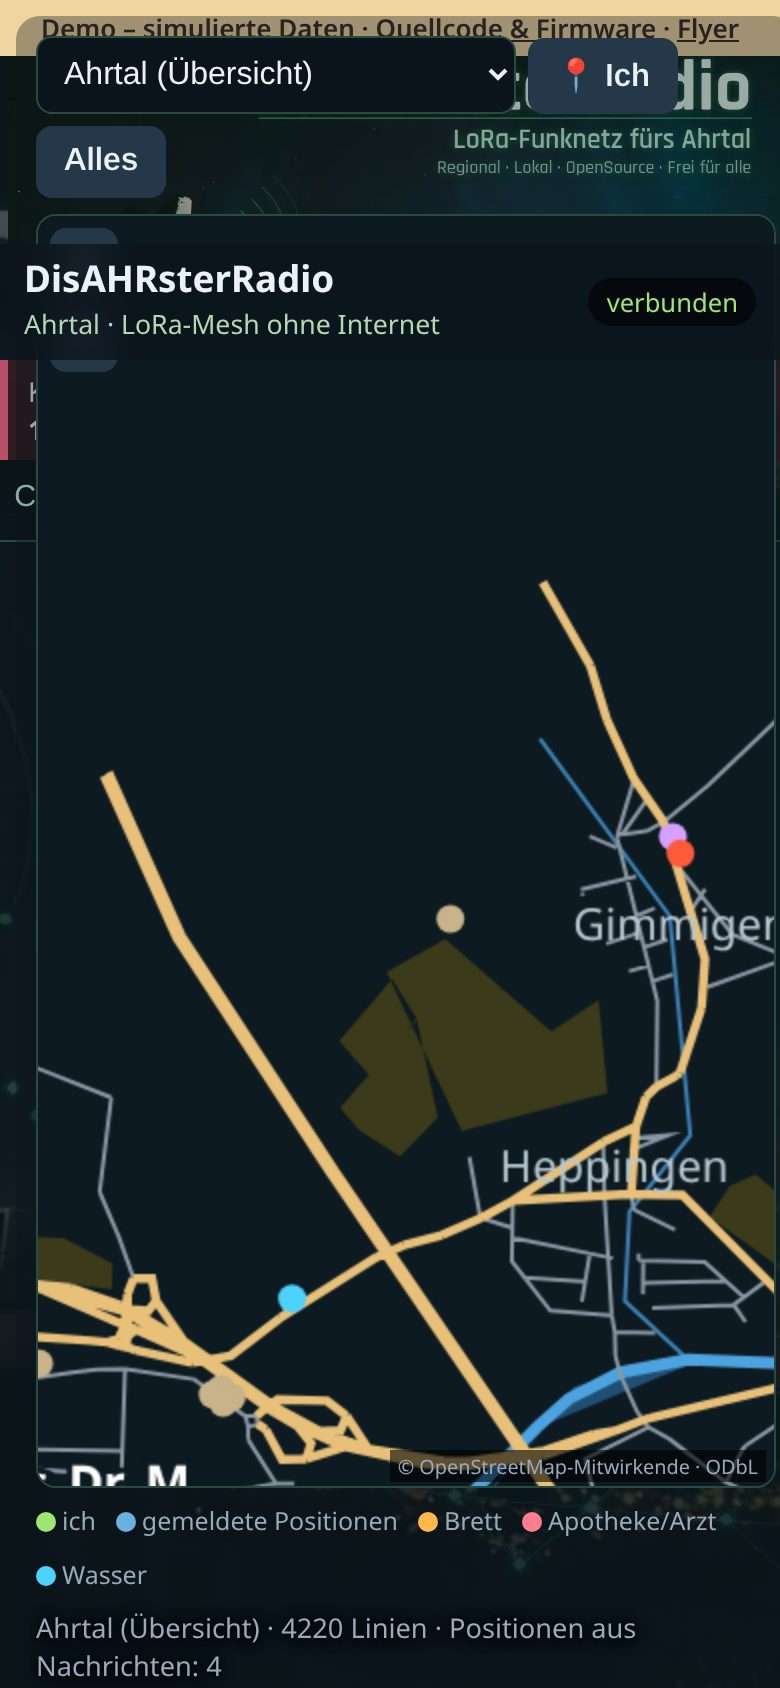
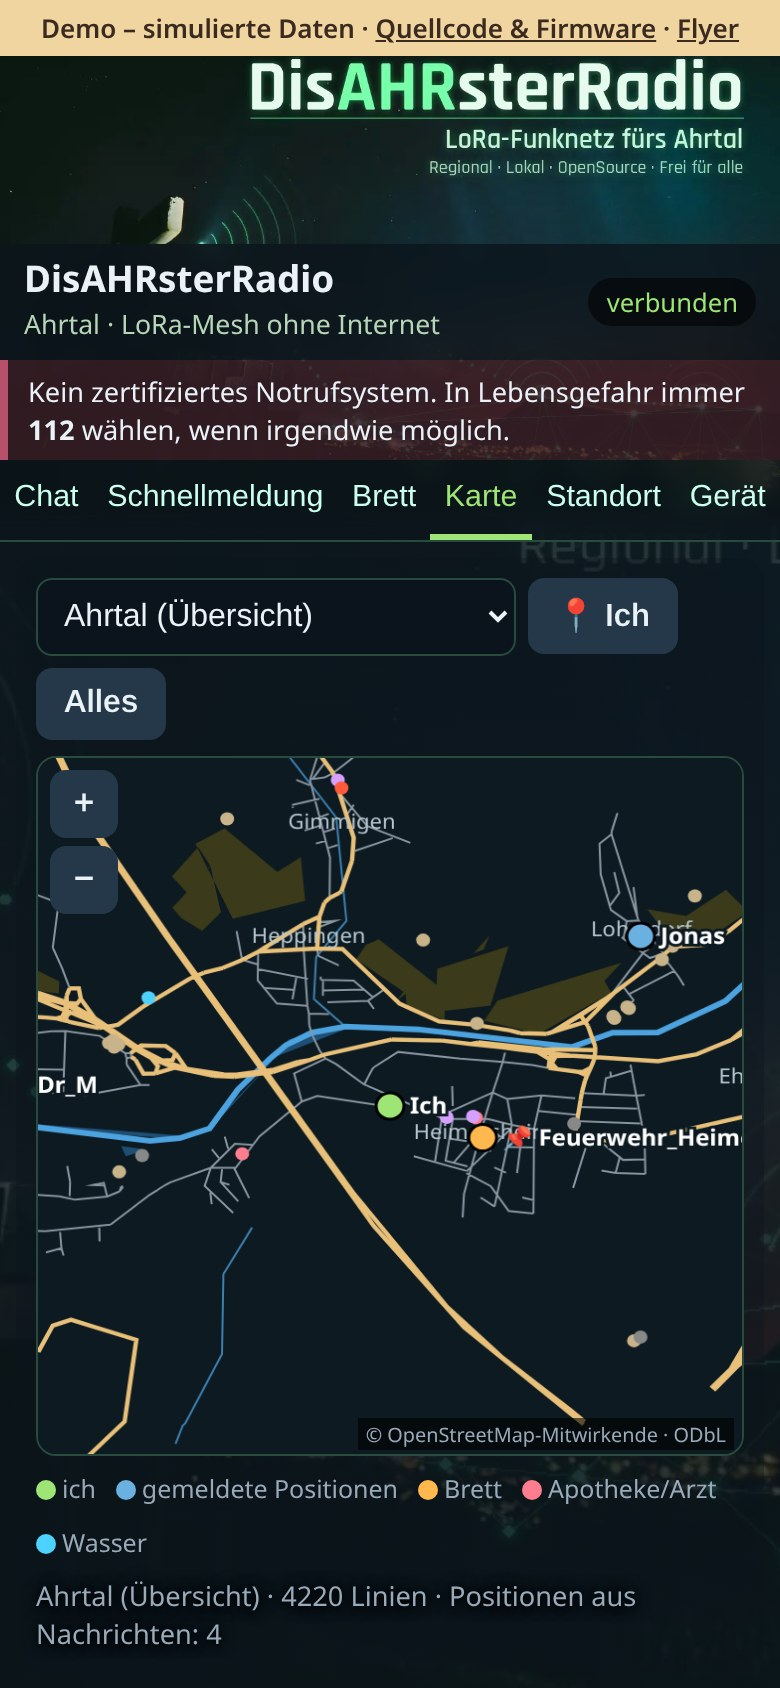
Karte: CSS-Regel auf Canvas #cv statt ganzen Tab #map; Build-Reihenfolge buildfs vor Firmware (package.sh, CI); Karten-Screenshot neu

diff --git a/web/static/index.html b/web/static/index.html
@@ -32,7 +32,7 @@ h2{margin:4px 0;font-size:1.05rem}
 #posts{display:flex;flex-direction:column;gap:6px;overflow-y:auto;flex:1}
 .row{display:flex;gap:6px;align-items:center;flex-wrap:wrap}.row label{font-size:.9rem;display:flex;gap:4px;align-items:center}.row select{flex:0 1 auto}
 #mapwrap{position:relative;flex:1;min-height:340px;border:1px solid var(--line);border-radius:10px;overflow:hidden;background:#0d1a22;touch-action:none}
-#map{position:absolute;inset:0;width:100%;height:100%}#mapattr{position:absolute;right:4px;bottom:2px;font-size:.62rem;color:#9ab;background:#0009;padding:1px 4px}
+#cv{position:absolute;inset:0;width:100%;height:100%}#mapattr{position:absolute;right:4px;bottom:2px;font-size:.62rem;color:#9ab;background:#0009;padding:1px 4px}
 #mapctl{position:absolute;left:6px;top:6px;display:flex;flex-direction:column;gap:4px}#mapctl button{width:34px;height:34px;padding:0;font-size:1.1rem}
 .legend{font-size:.78rem;color:#9ab;display:flex;gap:10px;flex-wrap:wrap}.legend i{display:inline-block;width:10px;height:10px;border-radius:50%;margin-right:3px;vertical-align:-1px}
 section h2,section p,.row label{text-shadow:0 1px 3px #000,0 0 8px #000}
